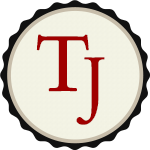
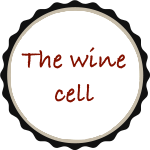
wine cell ready to populate

diff --git a/index.html b/index.html
@@ -1,17 +1,16 @@
 ---
 layout: full-width
-title: Wine blog
-# Note that this index page uses a full-width layout!
+title: Wine cell
 ---
 
-<!--   <h1 class="content-listing-header sans">Articles</h1> -->
-  <ul class="content-listing ">
-    {% for post in site.posts %}      
-        <li class="listing">
-          <hr class="slender">
-          <a href="{{ post.url | prepend: site.baseurl }}"><h3 class="contrast">{{ post.title }}</h3></a>
-          <br><span class="smaller">{{ post.date | date: "%B %-d, %Y" }}</span>  <br/>
-          <div>{{ post.excerpt }}</div> 
-        </li>
-    {% endfor %}
-  </ul>
+<p class="">Practice "must have knowledge" to become a wine expert.</p>
+<ul class="content-listing ">
+{% for test in site.tests %}      
+    <li class="listing">
+      <hr class="slender">
+      <a href="{{ test.url | prepend: site.baseurl }}"><h3 class="contrast">{{ test.title }}</h3></a>
+      <br><span class="smaller">{{ test.date | date: "%B %-d, %Y" }}</span>  <br/>
+<!--           <div>{{ test.excerpt }}</div>  -->
+    </li>
+{% endfor %}
+</ul>

diff --git a/_includes/header.html b/_includes/header.html
@@ -1,7 +1,7 @@
 <!--- Header and nav template site-wide -->
 <header>
     <nav class="group">
-	<a href="{{site.baseurl}}/"><img class="badge" src="{{site.baseurl}}/assets/img/badge.png" alt="CH"></a>
+	<a href="{{site.baseurl}}/"><img class="badge" src="{{site.baseurl}}/assets/img/badge_1.png" alt="CH"></a>
 	{% for node in site.pages %}
 		{% unless node.nav_exclude %}
 		    {% if page.url == node.url %}

diff --git a/2_wine_blog/index.md b/2_wine_blog/index.md
@@ -1,0 +1,17 @@
+---
+layout: full-width
+title: Wine blog
+# Note that this index page uses a full-width layout!
+---
+
+<!--   <h1 class="content-listing-header sans">Articles</h1> -->
+  <ul class="content-listing ">
+    {% for post in site.posts %}      
+        <li class="listing">
+          <hr class="slender">
+          <a href="{{ post.url | prepend: site.baseurl }}"><h3 class="contrast">{{ post.title }}</h3></a>
+          <br><span class="smaller">{{ post.date | date: "%B %-d, %Y" }}</span>  <br/>
+          <div>{{ post.excerpt }}</div> 
+        </li>
+    {% endfor %}
+  </ul>

diff --git a/3_data_collection/index.md b/3_data_collection/index.md
@@ -1,0 +1,23 @@
+---
+layout: full-width
+title: Data collection
+---
+
+Comming: A collection of all our written articles and "must have knowledge" organized geographically.
+
+<!-- <ul class="content-listing ">
+    <li>
+    	Region 1:
+    	<ol>
+    		<li>Article 1</li>
+    		<li>Article 2</li>
+    	</ol>
+    </li>
+    <li>
+    	Region 2:
+    	<ol>
+    		<li>Article 1</li>
+    		<li>Article 2</li>
+    	</ol>
+    </li>
+</ul> -->

diff --git a/_posts/posts/2017-07-01-first-post.md b/_posts/posts/2017-07-01-first-post.md
@@ -1,0 +1,11 @@
+---
+layout: post
+title:  "first post"
+date:   2017-07-01 13:06:04
+categories: wine good
+tag: tag0 tagcool
+---
+
+#First Post
+
+<p>Lorem ipsum dolor sit amet, consectetur adipisicing elit. Minus vero earum optio laboriosam fuga repudiandae sapiente distinctio voluptates esse eligendi. Consequatur quod officia, laudantium hic earum perspiciatis rem animi amet!</p>

diff --git a/_tests/tests/2017-07-01-first-test.md b/_tests/tests/2017-07-01-first-test.md
@@ -1,0 +1,13 @@
+---
+layout: post
+title:  "first test"
+date:   2017-07-01 13:06:04
+categories: test
+tag: tag1 tag2
+---
+
+#First TEST
+
+<script>
+	alert("testing js");
+</script>

diff --git a/1_our_e_somms/index.md b/1_our_e_somms/index.md
@@ -1,0 +1,9 @@
+---
+layout: full-width
+title: Our E-somms
+---
+
+Contributor 1: Working on it ;-)
+
+Contributor 2: Working on it ;-)
+
